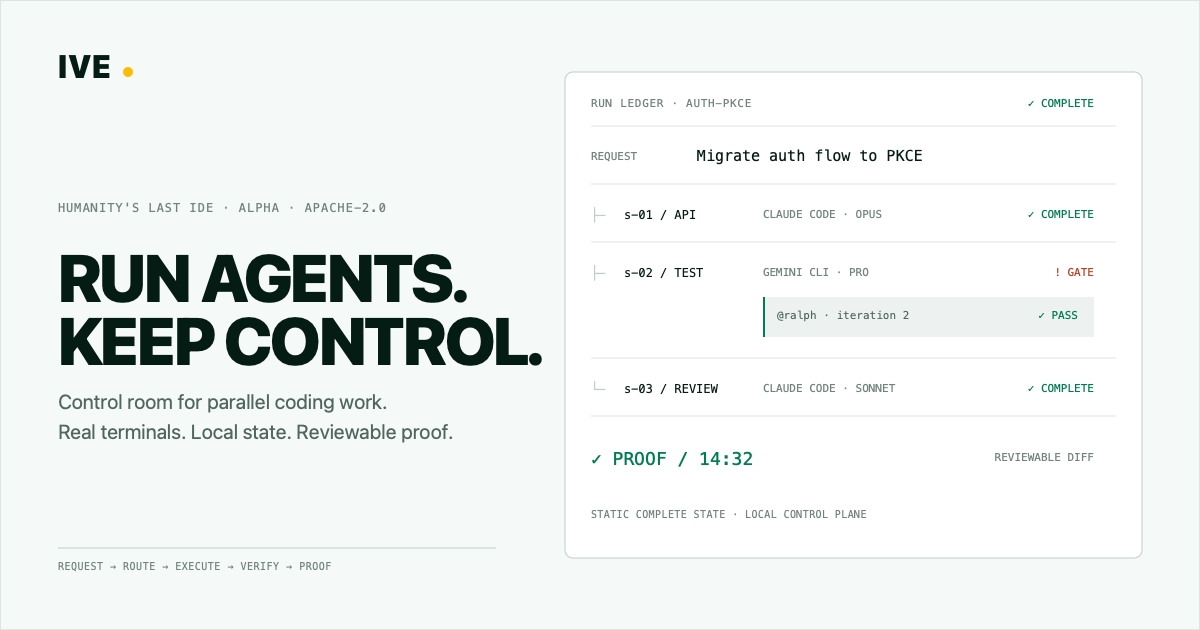
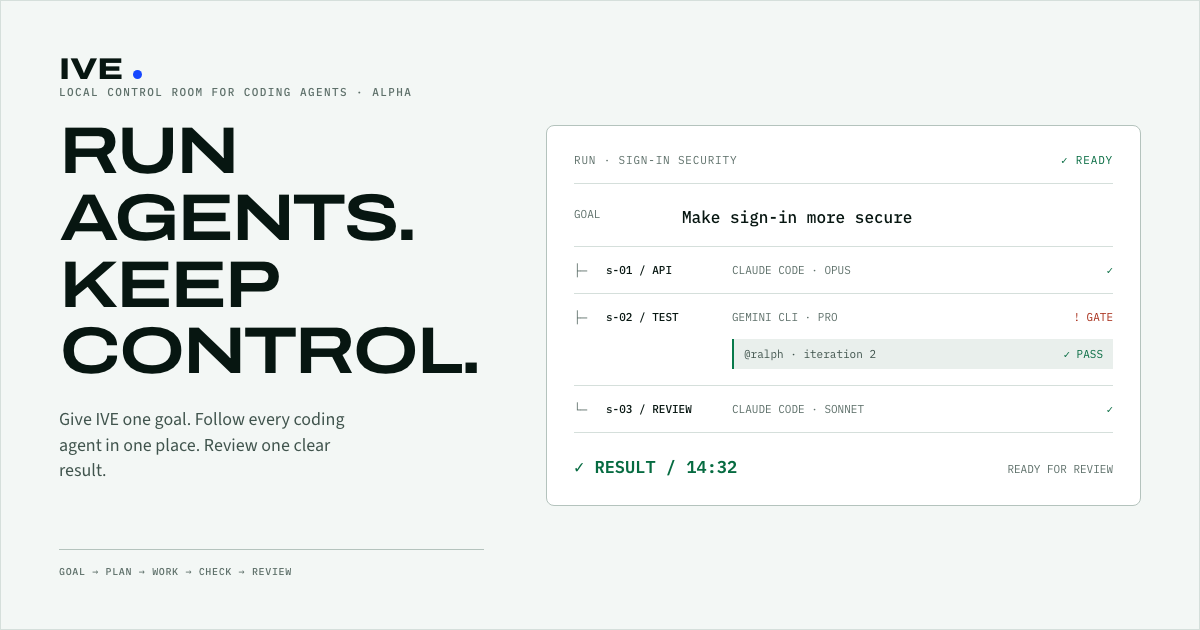
Switch the accent from amber to electric blue
- --running is #1647FF (ink #0E36C7) in light and #5B8CFF in dark; route
  and focus share the same blue, so one accent marks everything active
- Light-ground accent buttons get white text
- Scene cards and the Mission Control count follow the accent
- Open Graph image re-rendered, DESIGN.md records the change

Claude-Session: https://claude.ai/code/session_01Eox82wUrQZS6eA6jyr42hG

diff --git a/styles.css b/styles.css
@@ -10,15 +10,15 @@
   --bg-raised: #FFFFFF;
   --bg-inset: #EBEDEF;
   --bg-glass: rgba(244, 245, 246, 0.82);
-  --on-accent: #15171A;
+  --on-accent: #FFFFFF;
   --line: #DDE0E3;
   --line-strong: #BFC4C9;
   --text: #15171A;
   --text-dim: #4A4F55;
   --text-faint: #6B7178;
   /* semantic state — base tokens are fills and marks; ink tokens are text */
-  --running: #FFB000;
-  --running-ink: #8A5200;
+  --running: #1647FF;
+  --running-ink: #0E36C7;
   --complete: #087A4B;
   --complete-ink: #066B41;
   --waiting: #98A0A8;
@@ -61,17 +61,17 @@
   --text: #EDEDE9;
   --text-dim: #A3A39E;
   --text-faint: #85857F;
-  --running: #FFB454;
-  --running-ink: #FFB454;
+  --running: #5B8CFF;
+  --running-ink: #5B8CFF;
   --complete: #7DCE82;
   --complete-ink: #7DCE82;
   --waiting: #8A8A93;
   --waiting-ink: #8A8A93;
   --attention: #F2545B;
   --attention-ink: #F2545B;
-  --route: #6BB6C9;
-  --route-ink: #6BB6C9;
-  --focus: #FFB454;
+  --route: #5B8CFF;
+  --route-ink: #5B8CFF;
+  --focus: #5B8CFF;
   --invert-bg: #F4F3EF;
   --invert-raised: #FFFFFF;
   --invert-text: #1A1A18;
@@ -81,20 +81,20 @@
 
 /* 60 / 30 / 10 palette: the page stays predominantly on the cool light
    work surface; these bounded control fields provide the anthracite 30%.
-   Amber marks active execution and blue marks routing, never decoration. */
+   One electric blue marks active execution and routing, never decoration. */
 .surface-secondary {
   --bg: #15171A;
   --bg-raised: #1E2125;
   --bg-inset: #111316;
   --bg-glass: rgba(21, 23, 26, 0.88);
-  --on-accent: #15171A;
+  --on-accent: #0B0B0D;
   --line: #2B2F34;
   --line-strong: #444A51;
   --text: #F4F5F6;
   --text-dim: #B5BBC2;
   --text-faint: #8E969F;
-  --running: #FFB454;
-  --running-ink: #FFB454;
+  --running: #5B8CFF;
+  --running-ink: #5B8CFF;
   --complete: #7DCE82;
   --complete-ink: #7DCE82;
   --waiting: #98A0A8;
@@ -103,7 +103,7 @@
   --attention-ink: #F06A58;
   --route: #6F91FF;
   --route-ink: #8AA5FF;
-  --focus: #FFB454;
+  --focus: #5B8CFF;
   background: var(--bg);
   color: var(--text);
 }
@@ -113,14 +113,14 @@
   --bg-raised: #FFFFFF;
   --bg-inset: #EBEDEF;
   --bg-glass: rgba(244, 245, 246, 0.88);
-  --on-accent: #15171A;
+  --on-accent: #FFFFFF;
   --line: #DDE0E3;
   --line-strong: #BFC4C9;
   --text: #15171A;
   --text-dim: #4A4F55;
   --text-faint: #6B7178;
-  --running: #FFB000;
-  --running-ink: #8A5200;
+  --running: #1647FF;
+  --running-ink: #0E36C7;
   --complete: #087A4B;
   --complete-ink: #066B41;
   --waiting: #98A0A8;
@@ -2741,7 +2741,7 @@ h3, .delegate-say, .stat-n, .merge-ready { font-family: var(--display); }
   opacity: 0;
   will-change: transform, opacity;
 }
-.scene-board .sb-count { color: #FFB454; }
+.scene-board .sb-count { color: #5B8CFF; }
 .scene-swarm { position: absolute; inset: 0; }
 .scene-agent {
   position: absolute; left: 50%; top: 50%;
@@ -2763,7 +2763,7 @@ h3, .delegate-say, .stat-n, .merge-ready { font-family: var(--display); }
 .scene-agent .sa-id { font-weight: 600; }
 .scene-agent .sa-st { display: inline-flex; align-items: center; gap: 5px; color: #8A8A93; }
 .scene-agent .sa-line { margin: 0; font-size: 10.5px; color: #7E7E86; }
-.scene-agent[data-st="run"] .sa-st { color: #FFB454; }
+.scene-agent[data-st="run"] .sa-st { color: #5B8CFF; }
 .scene-agent[data-st="att"] .sa-st { color: #F2545B; }
 .scene-agent[data-st="att"] { border-color: rgba(242, 84, 91, 0.55); box-shadow: 0 14px 34px rgba(0, 0, 0, 0.55), 0 0 0 1px rgba(242, 84, 91, 0.15); }
 .scene-agent[data-st="wait"] .sa-st { color: #8A8A93; }

diff --git a/assets/og.html b/assets/og.html
@@ -15,7 +15,7 @@
     --text: #071611;
     --dim: #40544D;
     --faint: #5E706A;
-    --running: #8A5200;
+    --running: #0E36C7;
     --complete: #066B41;
     --attention: #A82F1B;
     --display: 'Archivo', system-ui, sans-serif;
@@ -28,7 +28,7 @@
   main { width: 100%; height: 100%; display: grid; grid-template-columns: 5fr 7fr; gap: 62px; padding: 52px 58px; border: 1px solid var(--line); }
   .thesis { display: flex; flex-direction: column; min-width: 0; }
   .brand { display: flex; align-items: baseline; gap: 10px; font-family: var(--display); font-size: 30px; font-stretch: 125%; font-weight: 800; }
-  .dot { width: 9px; height: 9px; border-radius: 50%; background: #FFB000; }
+  .dot { width: 9px; height: 9px; border-radius: 50%; background: #1647FF; }
   .eyebrow { margin-top: auto; color: var(--faint); font: 500 11px/1.4 var(--mono); letter-spacing: 0.13em; text-transform: uppercase; }
   h1 { margin: 18px 0 22px; font: 620 66px/1.01 var(--display); font-stretch: 125%; letter-spacing: -0.045em; text-wrap: balance; }
   .lede { max-width: 34ch; color: var(--dim); font-size: 18px; line-height: 1.42; }

diff --git a/DESIGN.md b/DESIGN.md
@@ -87,8 +87,10 @@ Rules:
 
 The page follows a 60 / 30 / 10 allocation. Roughly 60% is the cool light work
 surface, 30% is neutral anthracite across bounded control and verification
-fields, and 10% is functional accent. Amber means active execution; blue means
-routing. Dark mode reverses the grounds while preserving those roles.
+fields, and 10% is functional accent. One electric blue means active execution
+and routing; it is also the mark’s signal dot. Dark mode reverses the grounds
+while preserving those roles. (Amber was the accent until 2026-09-08 and was
+retired because it read as a warning and dated the anthracite.)
 
 ```text
 LIGHT
@@ -106,7 +108,7 @@ LIGHT
 Semantic colors split marks from readable ink:
 
 ```text
---running       #FFB000   --running-ink   #8A5200
+--running       #1647FF   --running-ink   #0E36C7
 --complete      #087A4B   --complete-ink  #066B41
 --waiting       #98A0A8   --waiting-ink   #5A6067
 --attention     #C83B24   --attention-ink #A82F1B
@@ -120,11 +122,11 @@ DARK
 --bg-glass rgba(16, 16, 18, 0.82)
 --line #26262B · --line-strong #34343B
 --text #EDEDE9 · --text-dim #A3A39E · --text-faint #85857F
---running / --running-ink #FFB454
+--running / --running-ink #5B8CFF
 --complete / --complete-ink #7DCE82
 --waiting / --waiting-ink #8A8A93
 --attention / --attention-ink #F2545B
---route / --route-ink #6BB6C9 · --focus #FFB454
+--route / --route-ink #5B8CFF · --focus #5B8CFF
 ```
 
 Mission Control, the architecture security ledger, and the footer use the
@@ -139,11 +141,11 @@ The high-intent hero and final CTAs use the execution accent:
 
 Rules:
 
-- Amber is earned by live/running marks and the two run actions only.
-- Blue is reserved for routes, architecture paths, and routing links.
+- Blue is earned by live/running marks, the two run actions, routes,
+  architecture paths, and routing links. Nothing else is blue.
 - No broad multicolor gradients, neon glow, purple, or decorative saturation.
-  The hero may use a low-opacity grid, a contained amber signal field, and one
-  white/amber specular glint to make Mission Control feel physically present.
+  The hero may use a low-opacity grid, a contained blue signal field, and one
+  white/blue specular glint to make Mission Control feel physically present.
 - The focus ring remains visible on every interactive control.
 
 ## Status language
